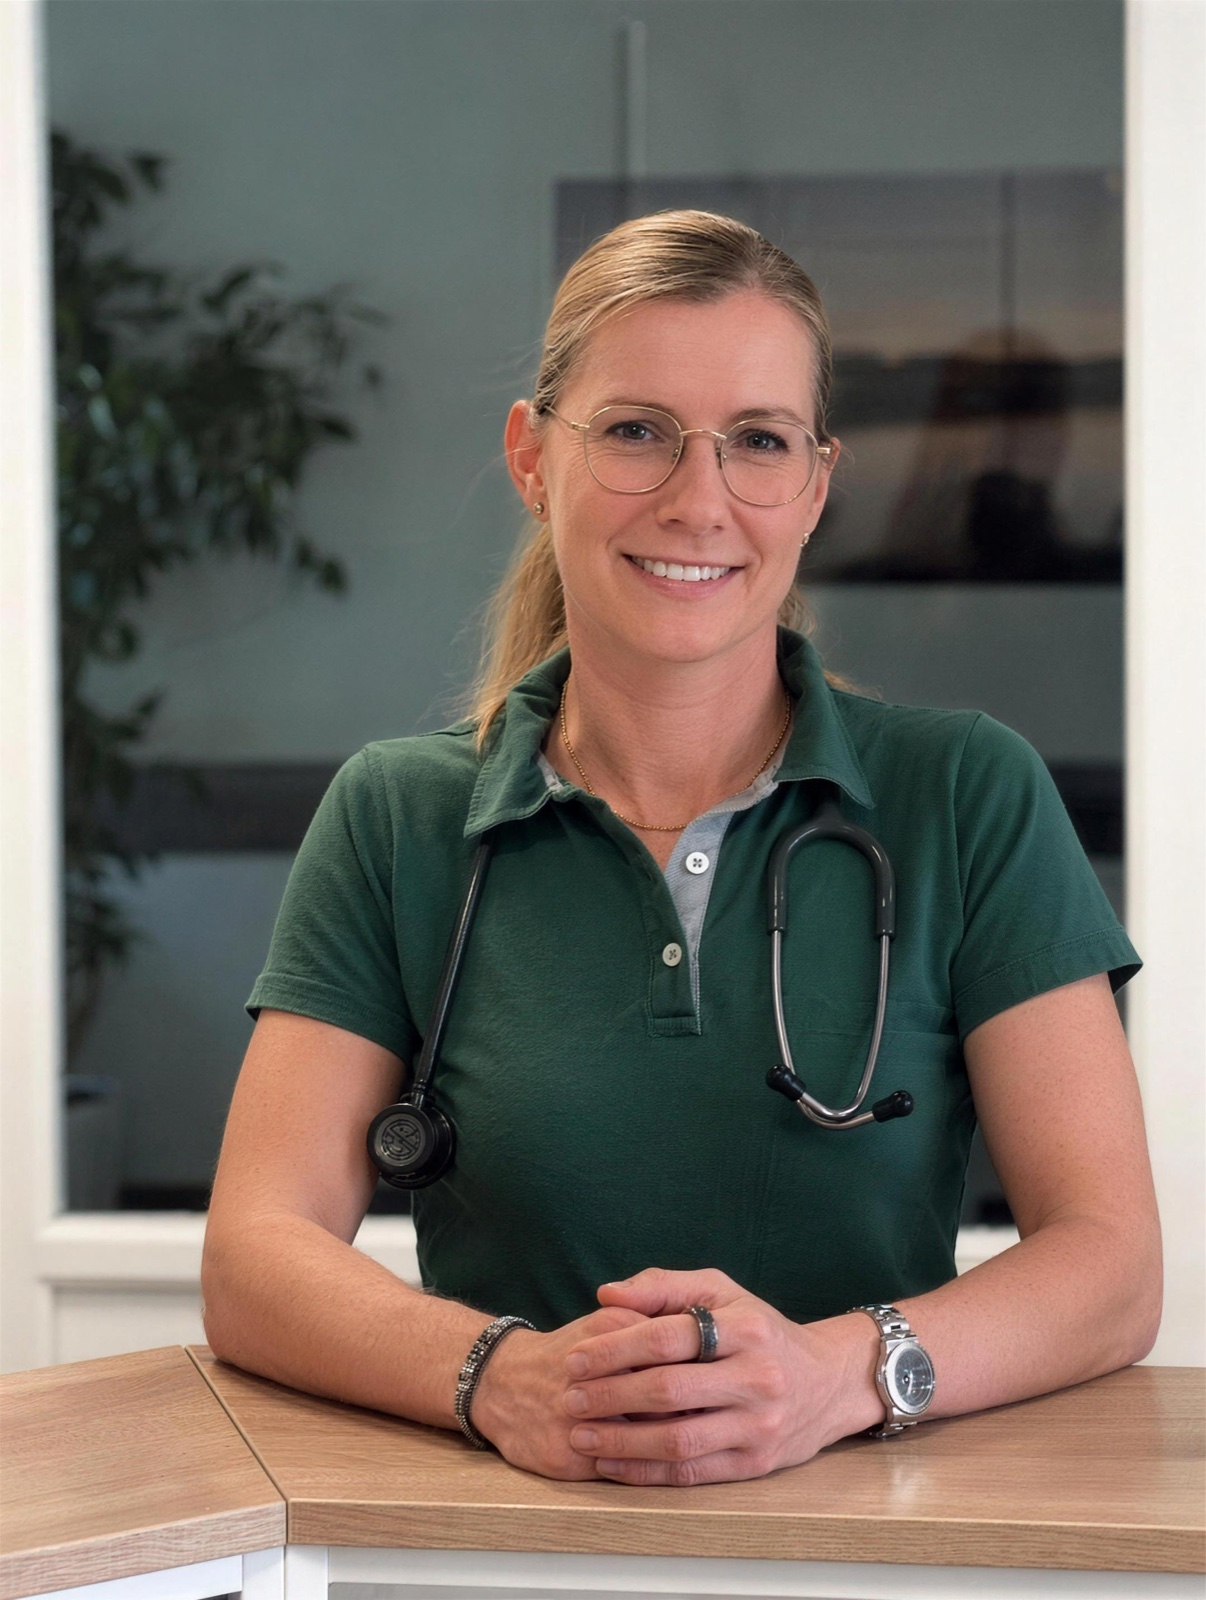
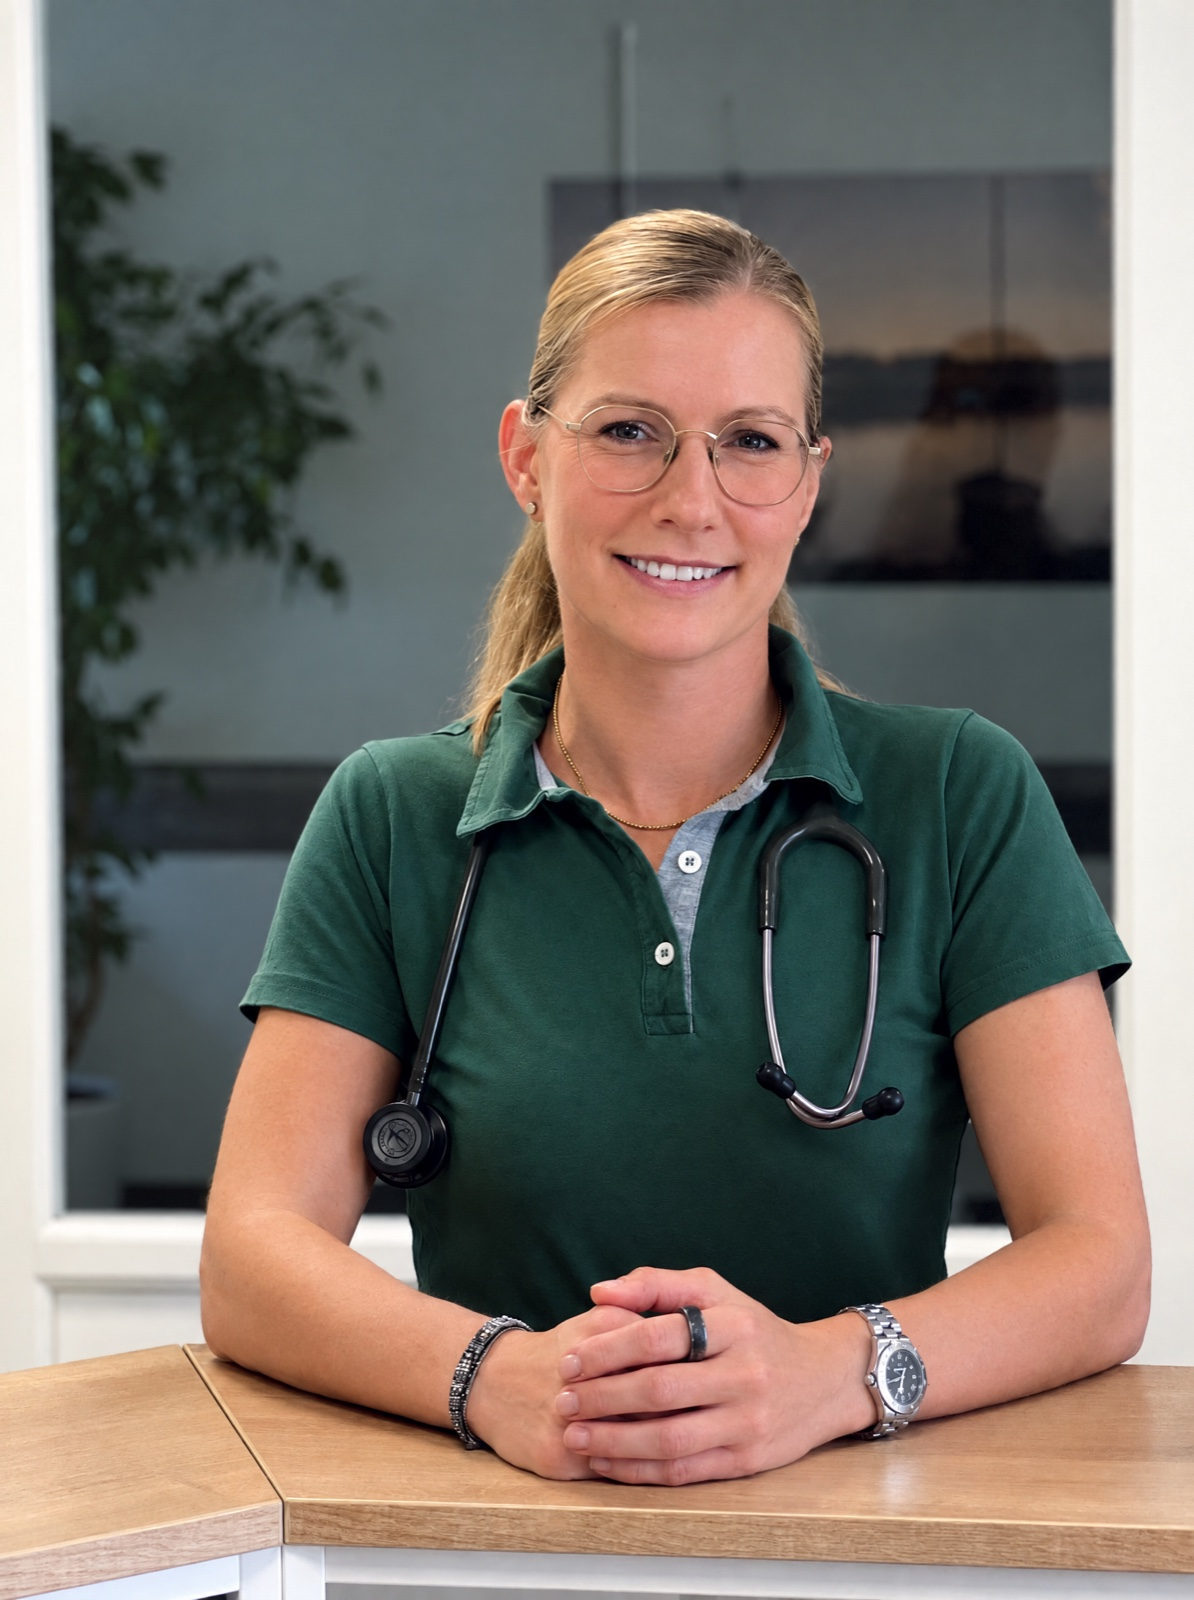
feat(tv): Inhaberporträts stärker verjüngt, ohne Falten in Gesicht und an Händen
Neu aus den Originalen erzeugt (Higgsfield, gpt_image_2_5), jeweils
Variante A gewählt. Website zeigt weiter die Originale.

diff --git a/js/tv-data.js b/js/tv-data.js
@@ -45,7 +45,9 @@ export const AKUTSPRECHSTUNDE = 'Montag bis Freitag 08:00 – 09:00 Uhr ohne Vor
 
 // Alle Fotos auf dem Bildschirm liegen unter images/tv/: mit Higgsfield
 // nachgeschärft (22.09.2026) und auf 1600 px Höhe verkleinert. Die beiden
-// Inhaberporträts sind auf Wunsch der Praxis zusätzlich dezent retuschiert.
+// Inhaberporträts sind auf Wunsch der Praxis verjüngt: seit 24.09.2026 ohne
+// Falten in Gesicht und an den Händen (Higgsfield, aus den Originalen;
+// Varianten in praxis-raw-assets/verjuengung-2026-09-24/).
 // Nur für den Bildschirm — die Website zeigt weiter die Originale unter images/.
 export const AERZTE = [
   {
